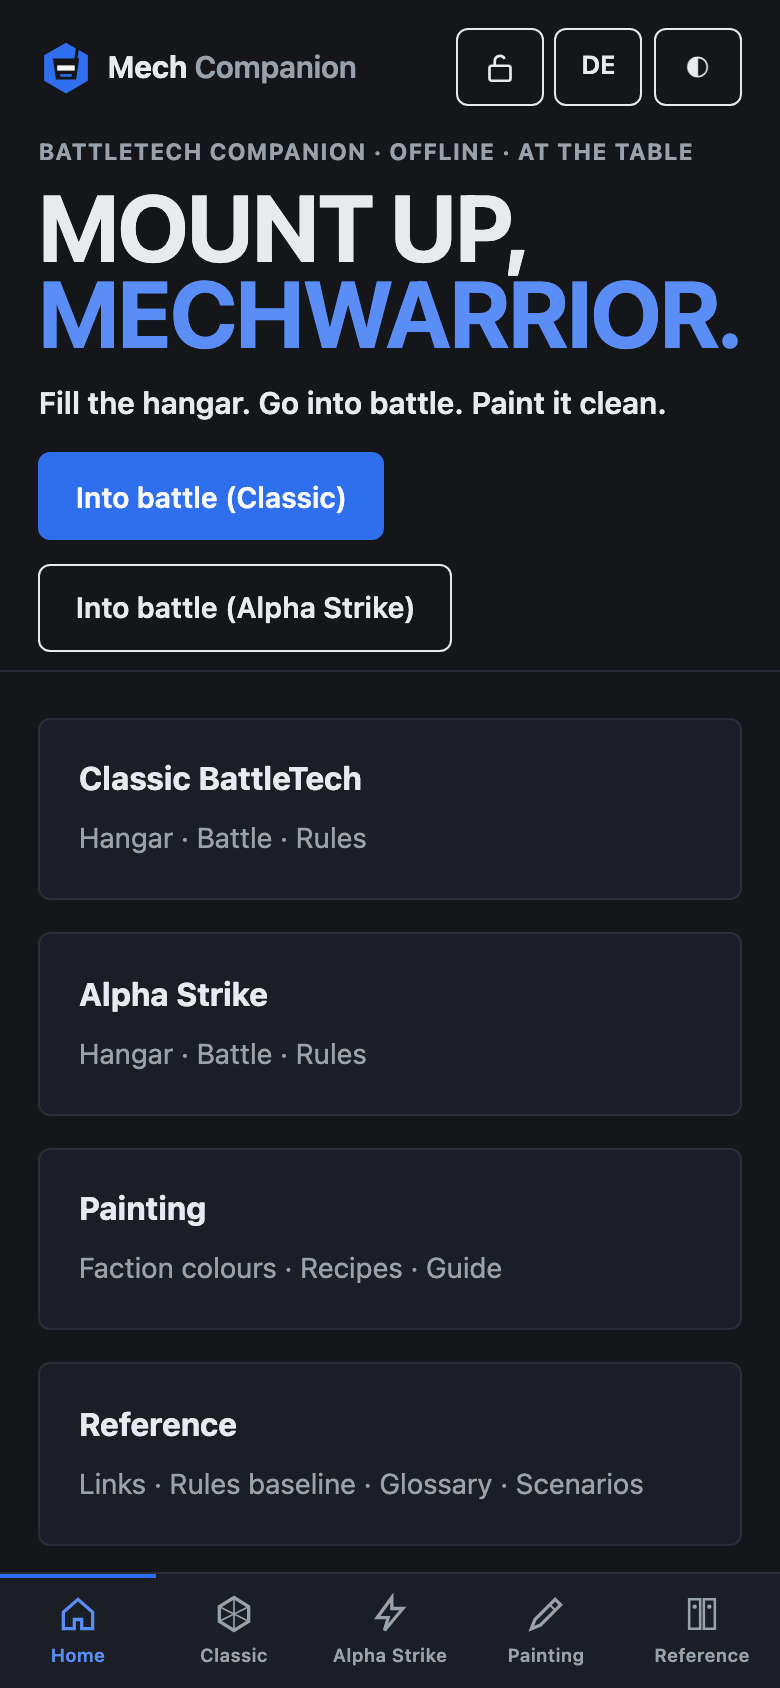
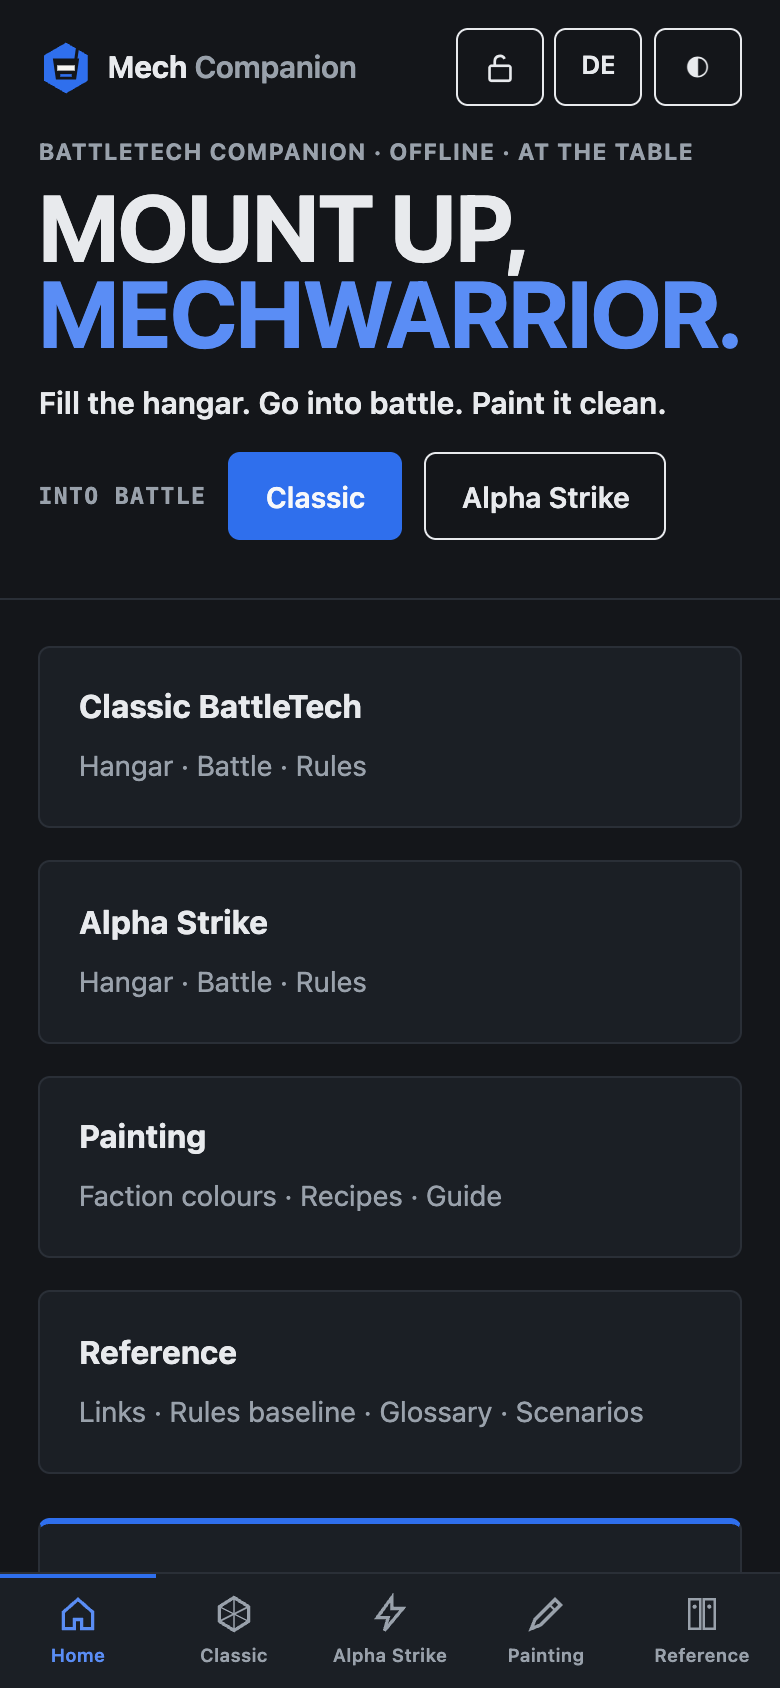
Fresh README screenshots, and one for the weapons reference
The old set showed formatting that today's usability pass changed: the
start page had two "into battle" buttons, the battle card had eight crit
rows of which seven said "—", the attack dialog counted range twice.

Six shots now, taken from a real lance of database 'Mechs mid-battle
rather than a toy hangar:

- Home, with the single "into battle" lead-in
- The Classic battle card with the paper doll and the crit block folded
  down to what actually happened
- The attack dialog reading "to-hit before range", terrain collapsed
- The weapons quick reference, which had no picture at all
- The Classic rules and the painting guide, both German, to show that the
  language pack is a complete mirror and not a veneer

Six at 140px rather than five at 165 — GitHub scales them to the content
column either way, and a sixth feature is worth more than a slightly
wider thumbnail.

diff --git a/README.md b/README.md
@@ -24,16 +24,18 @@ Install it from the browser menu and it works from the home screen, offline.
 
 <table>
 <tr>
-<td><img src="docs/img/home-en.png" width="165" alt="Home screen with the four areas and the rules baseline"></td>
-<td><img src="docs/img/battle-classic-en.png" width="165" alt="Classic battle tracker with armor pips on a paper doll"></td>
-<td><img src="docs/img/attack-en.png" width="165" alt="Attack dialog with the GATOR breakdown and the 2D6 chance"></td>
-<td><img src="docs/img/rules-classic-de.png" width="165" alt="Classic rules reference, German language pack"></td>
-<td><img src="docs/img/factions-de.png" width="165" alt="Faction colors with a paint recipe, German language pack"></td>
+<td><img src="docs/img/home-en.png" width="140" alt="Home screen with the four areas and the two ways into a battle"></td>
+<td><img src="docs/img/battle-classic-en.png" width="140" alt="Classic battle card: armor on a paper doll, critical hits below it"></td>
+<td><img src="docs/img/attack-en.png" width="140" alt="Attack dialog with the GATOR breakdown and the 2D6 chance"></td>
+<td><img src="docs/img/weapons-en.png" width="140" alt="Searchable weapons quick reference on the Classic rules page"></td>
+<td><img src="docs/img/rules-classic-de.png" width="140" alt="Classic rules, GATOR explained, German language pack"></td>
+<td><img src="docs/img/factions-de.png" width="140" alt="Faction colours with a paint recipe, German language pack"></td>
 </tr>
 <tr>
 <td align="center"><sub>Home</sub></td>
-<td align="center"><sub>Battle tracker</sub></td>
+<td align="center"><sub>Battle</sub></td>
 <td align="center"><sub>Attack</sub></td>
+<td align="center"><sub>Weapons</sub></td>
 <td align="center"><sub>Rules · <i>de</i></sub></td>
 <td align="center"><sub>Painting · <i>de</i></sub></td>
 </tr>
